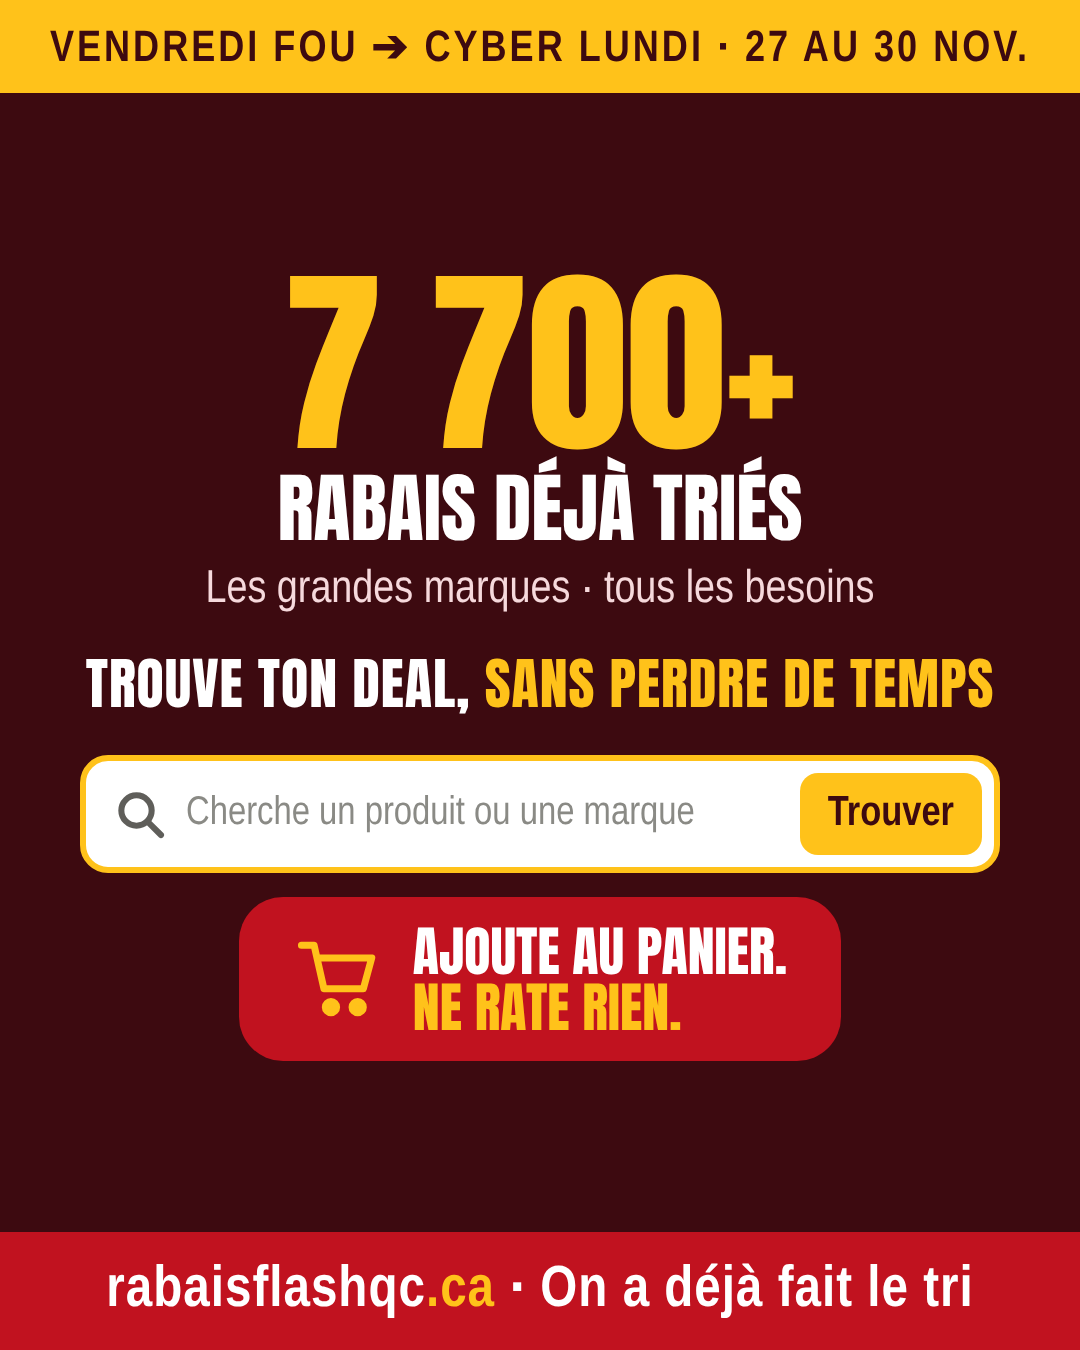
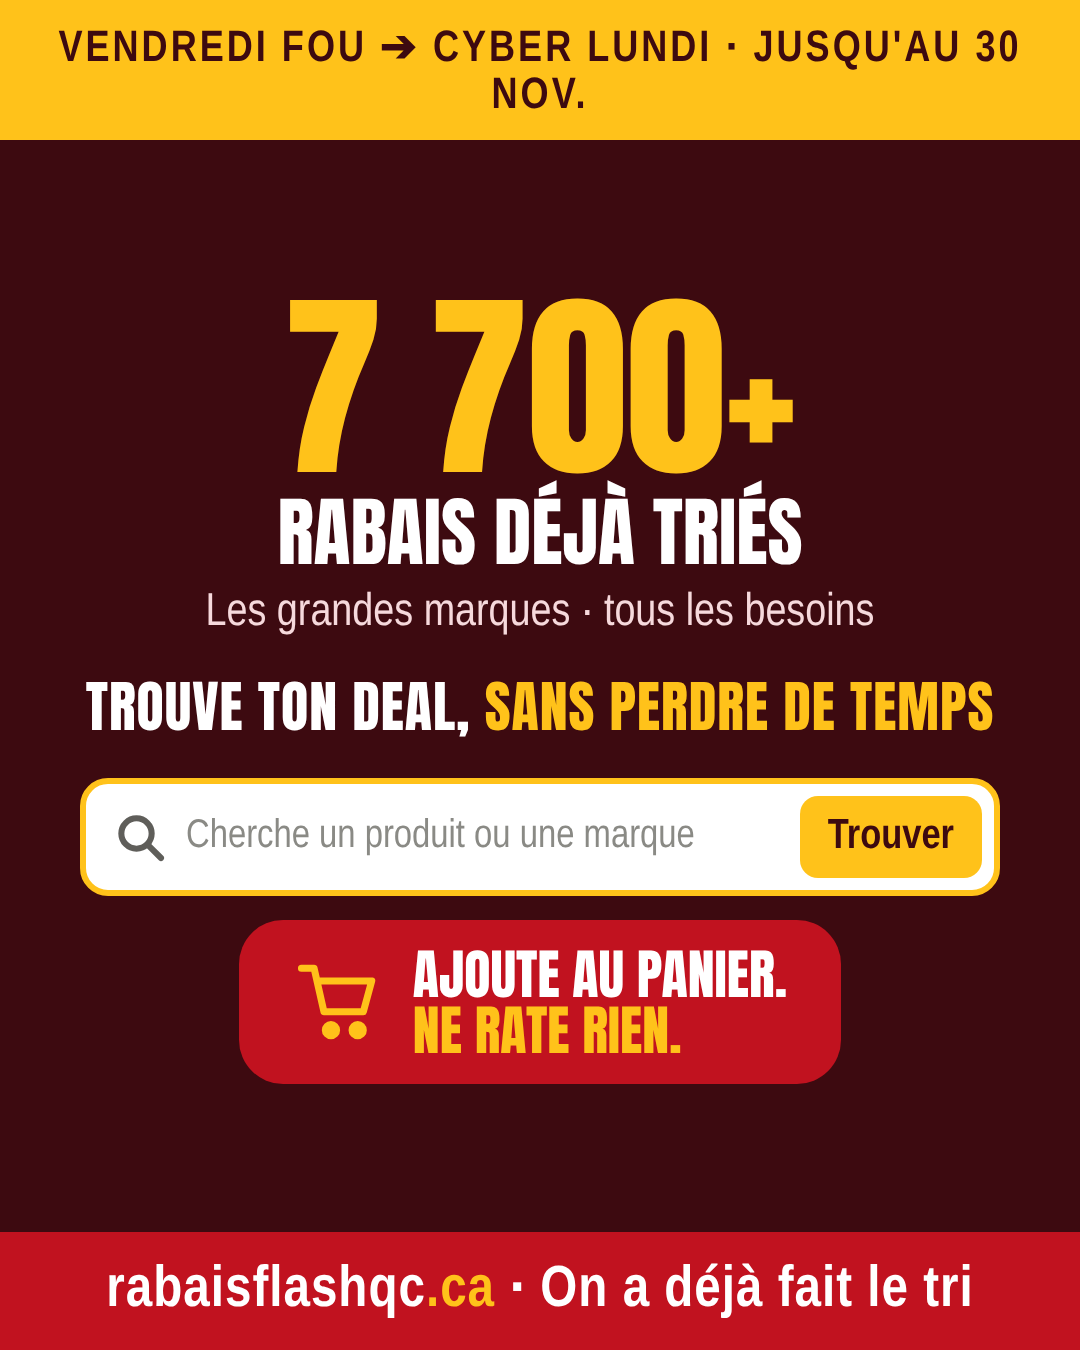
Pub BFCM: bandeau 'jusqu'au 30 nov.', zones sûres Stories en 9:16

Changed region(s): [[0.0611, 0.1867, 0.9472, 0.8089], [0.0, 0.0, 1.0, 0.1244]]

diff --git a/pub-bfcm-image.py b/pub-bfcm-image.py
@@ -9,7 +9,7 @@ CART = '<svg viewBox="0 0 64 64" width="{s}" height="{s}" fill="none" stroke="#F
 def html(h, tall):
     cs = 120 if tall else 90
     return f"""<!doctype html><meta charset=utf-8><style>
-*{{box-sizing:border-box;margin:0;padding:0}}body{{width:1080px;height:{h}px;background:#3D0A10;font-family:'Liberation Sans Narrow','Arial Narrow',Arial,sans-serif;font-weight:700;color:#fff;display:flex;flex-direction:column;overflow:hidden}}
+*{{box-sizing:border-box;margin:0;padding:0}}body{{width:1080px;height:{h}px;background:#3D0A10;font-family:'Liberation Sans Narrow','Arial Narrow',Arial,sans-serif;font-weight:700;color:#fff;display:flex;flex-direction:column;overflow:hidden;padding:{'210px 0 270px' if tall else '0'}}}
 .s{{background:#FFC21A;color:#3D0A10;text-align:center;font-size:44px;padding:20px 10px;letter-spacing:3px}}
 .m{{flex:1;display:flex;flex-direction:column;align-items:center;justify-content:center;text-align:center;padding:0 50px}}
 .n{{font-family:Anton,Impact,sans-serif;font-weight:400;font-size:{280 if tall else 200}px;line-height:1;color:#FFC21A}}
@@ -21,7 +21,7 @@ def html(h, tall):
 .p{{margin-top:{40 if tall else 24}px;background:#C1121F;border-radius:44px;padding:{34 if tall else 26}px 54px;display:flex;align-items:center;gap:30px;text-align:left}}
 .p div{{font-family:Anton,Impact,sans-serif;font-weight:400;font-size:{66 if tall else 54}px;line-height:1.04}}.p b{{color:#FFC21A;font-weight:400}}
 .f{{background:#C1121F;text-align:center;font-size:58px;padding:{40 if tall else 28}px 10px;letter-spacing:1px}}.f b{{color:#FFC21A}}
-</style><body><div class="s">VENDREDI FOU ➔ CYBER LUNDI · 27 AU 30 NOV.</div>
+</style><body><div class="s">VENDREDI FOU ➔ CYBER LUNDI · JUSQU'AU 30 NOV.</div>
 <div class="m"><div class="n">{big}</div><div class="t">RABAIS DÉJÀ TRIÉS</div><div class="sub">Les grandes marques · tous les besoins</div>
 <div class="lbl">TROUVE TON DEAL, <b>SANS PERDRE DE TEMPS</b></div>
 <div class="q"><svg viewBox="0 0 24 24" width="56" height="56" fill="none" stroke="#5F5E5A" stroke-width="2.6" stroke-linecap="round"><circle cx="10.5" cy="10.5" r="6.5"/><path d="M16 16l5 5"/></svg><span>Cherche un produit ou une marque</span><em>Trouver</em></div>
